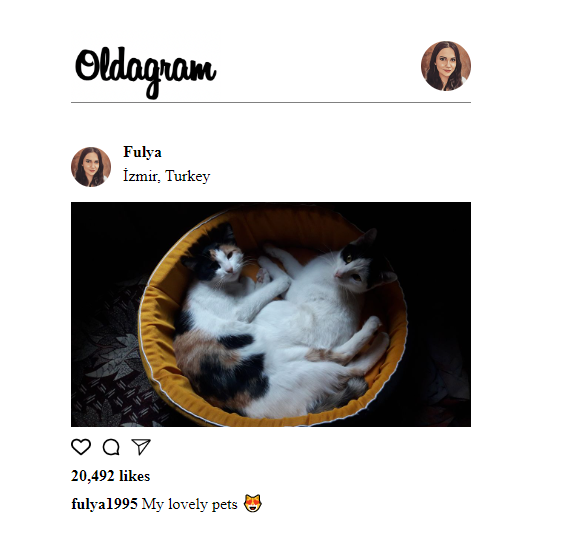
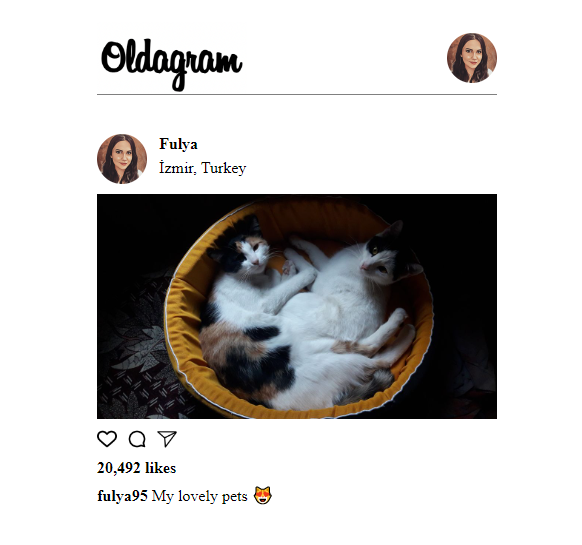
edited png

Changed region(s): [[0.1191, 0.2495, 0.8634, 0.9358], [0.1191, 0.0624, 0.8634, 0.1872]]

diff --git a/2-solo-project-oldagram-app/index.css b/2-solo-project-oldagram-app/index.css
@@ -51,8 +51,8 @@ header{
 
 }
 .avatar2{
-    width:40px;
-    height: 40px;
+    width:50px;
+    height: 50px;
     border-radius: 50%;
 }
 h4{
